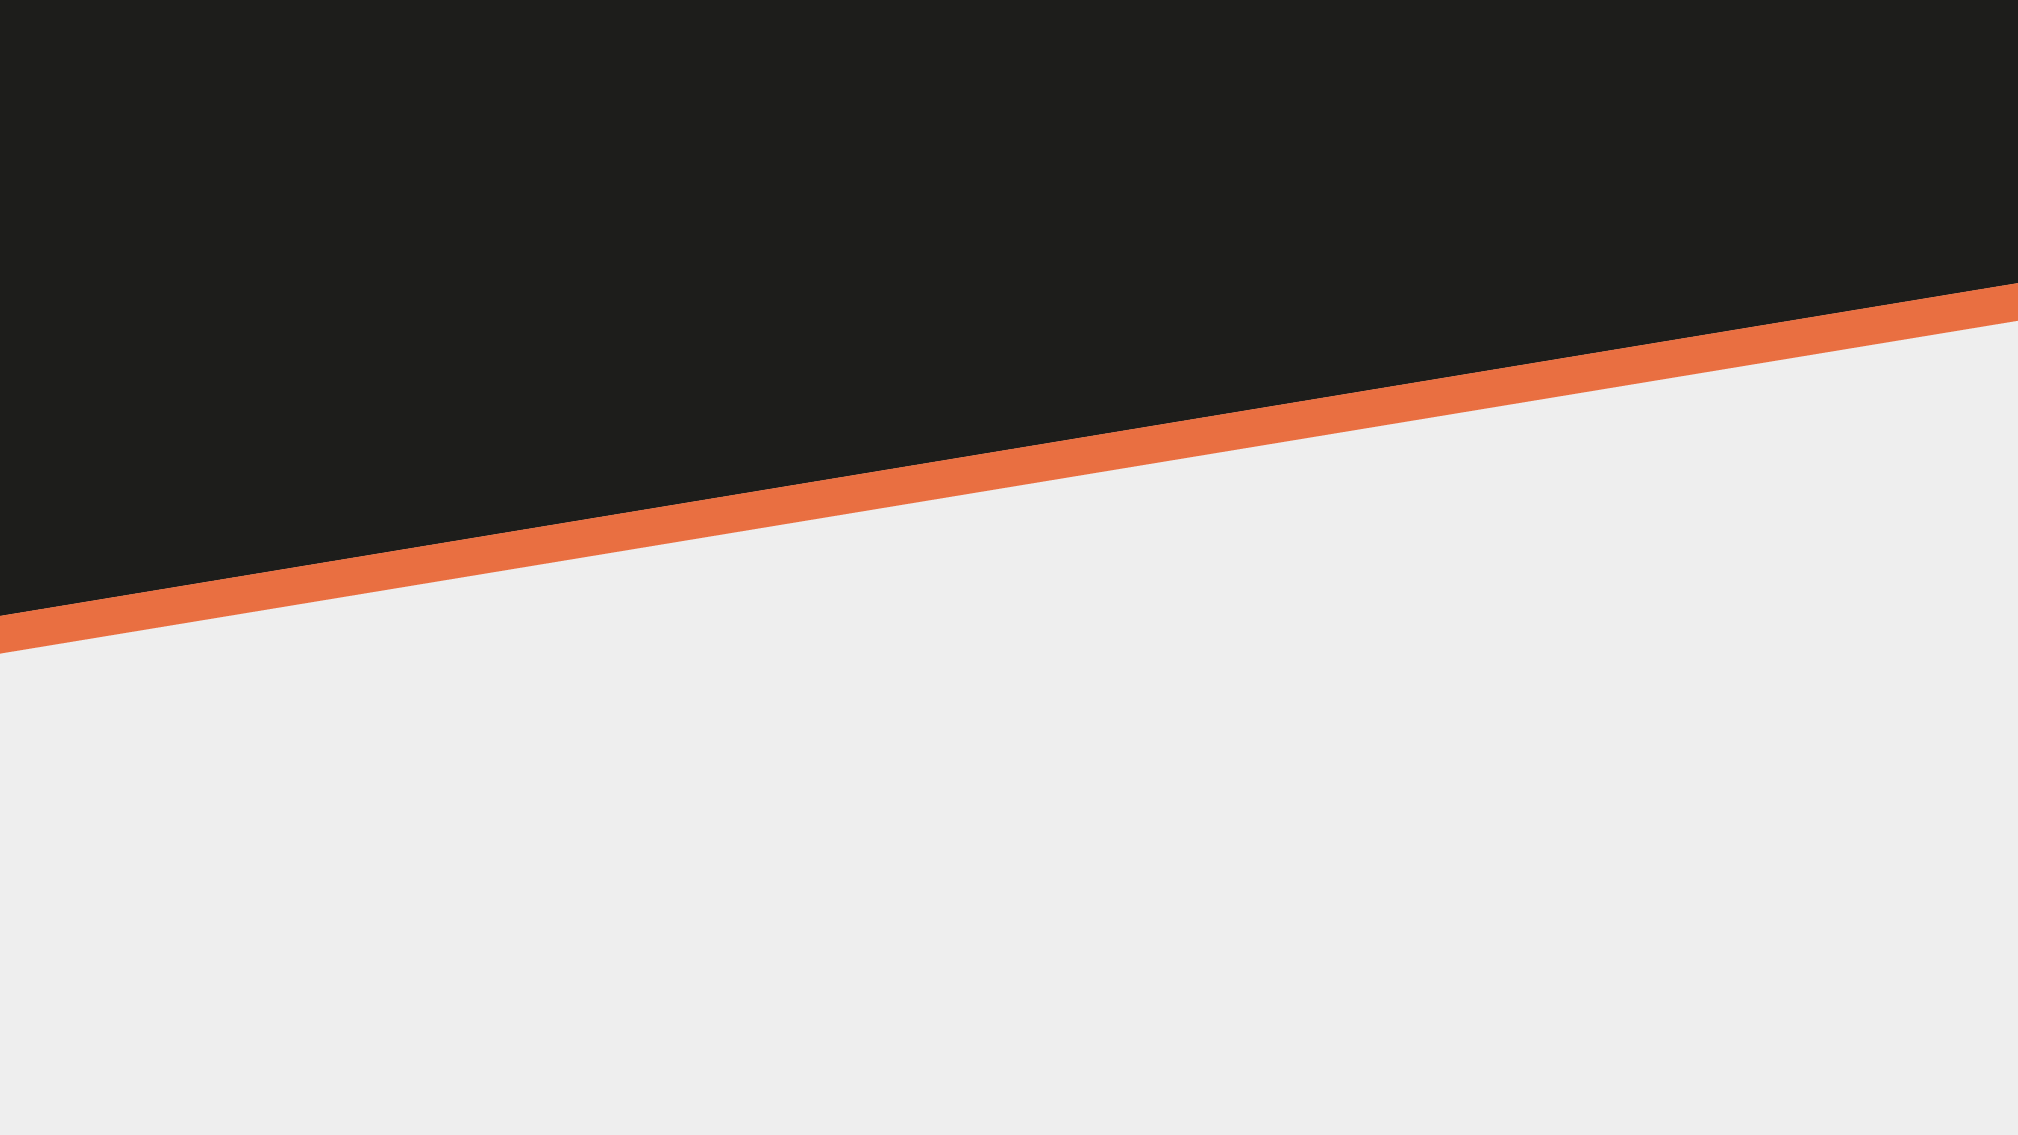
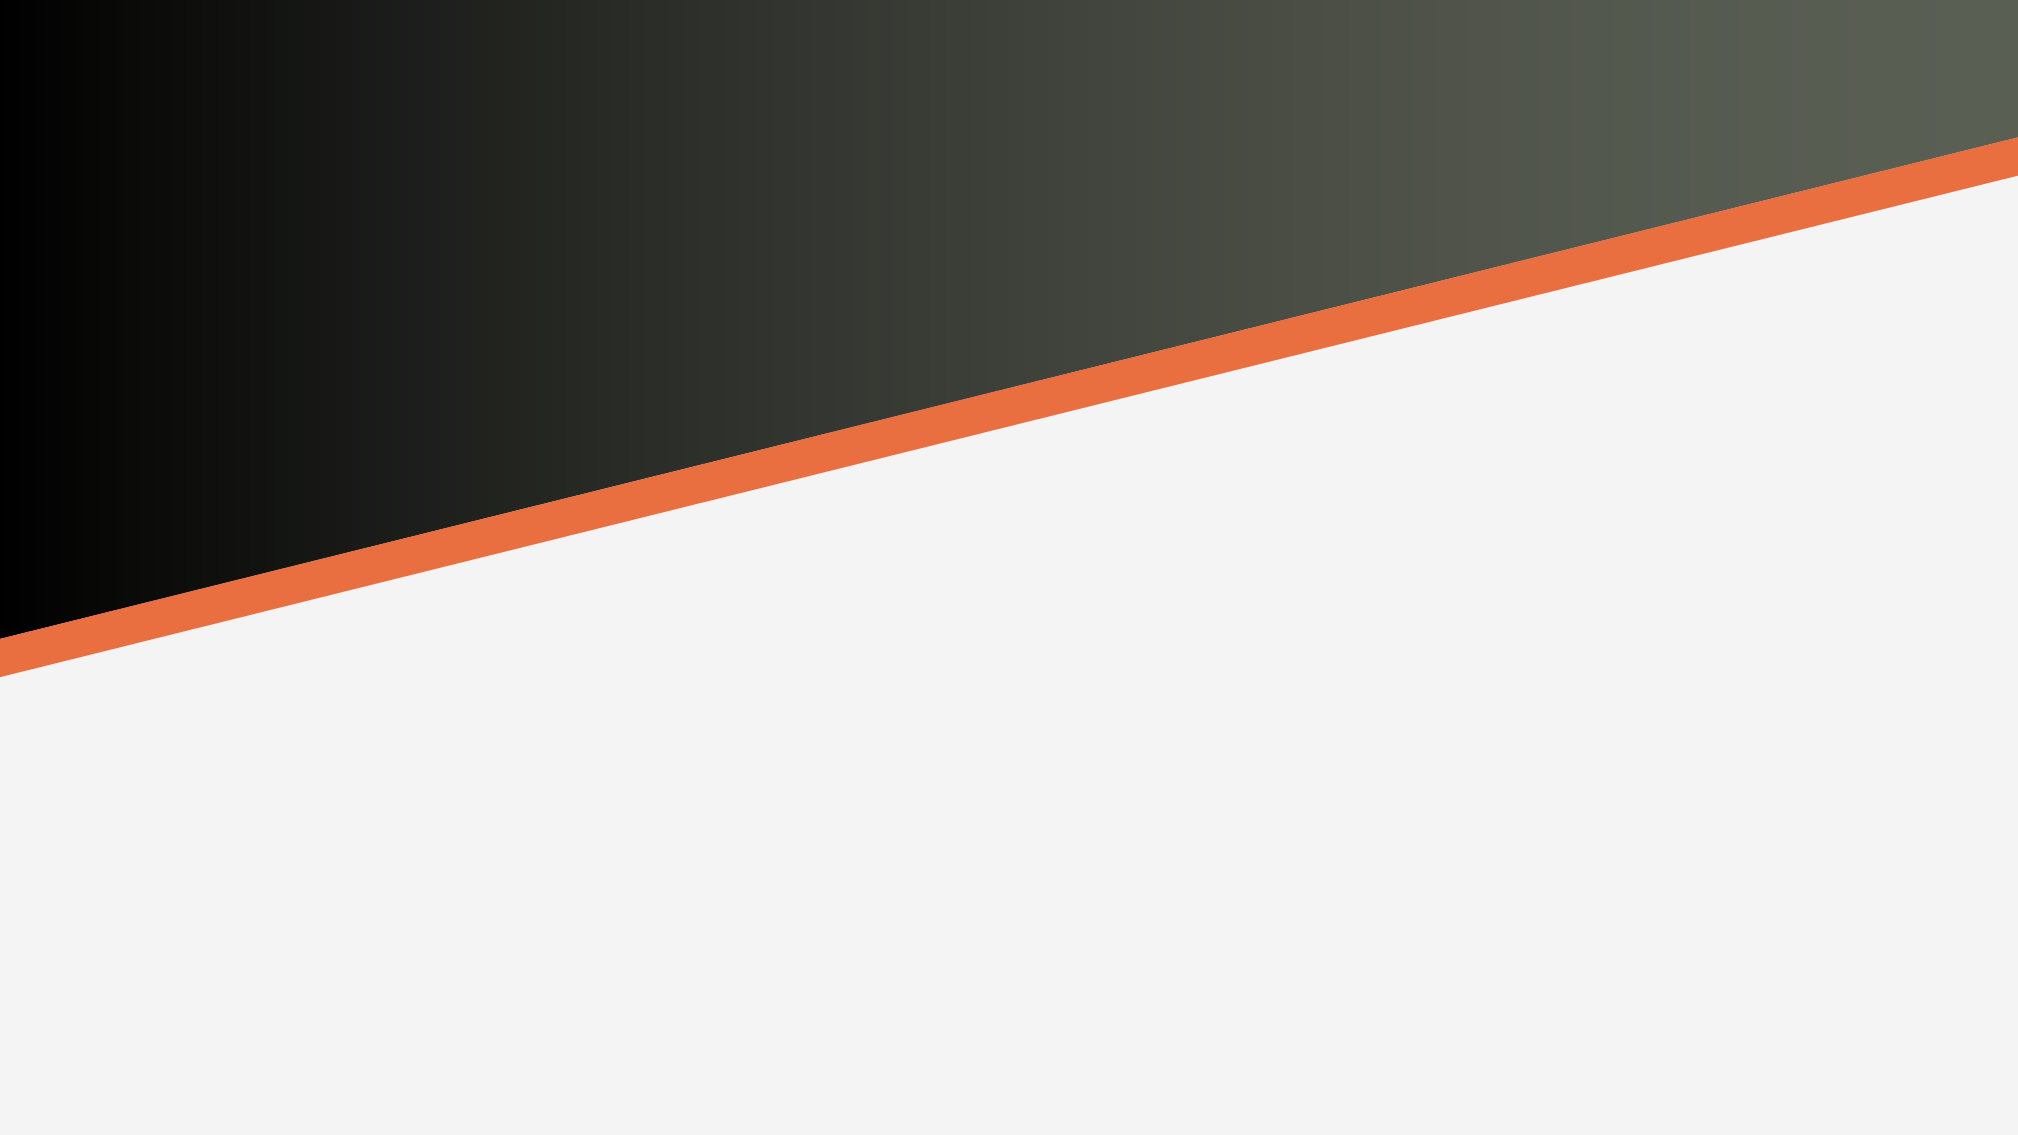
fix estilo colores

Changed region(s): [[0.1561, 0.0, 1.0, 0.5242], [0.0, 0.0, 0.1249, 0.6167]]

diff --git a/css/estilos.css b/css/estilos.css
@@ -2,14 +2,14 @@
 :root {
     /* Definición de variables CSS (colores, gradiente, sombras) */
   --color-naranja-dark: #e96f41;
-  --color-naranja-light: #f7bf72;
+  --color-naranja-light: linear-gradient(to bottom, #e96f41 1%,#1e1e1e 100%);;
   --color-naranja: #f4a942;
-  --color-negro: #1e1e1e;
+  /* --gradiente: #1e1e1e; */
+  --gradiente: linear-gradient(to bottom, #1e1e1e 0%,#5a5f54 100%);
   --color-blanco: #eee;
-  --color-gris: #5a5f54d7;
-  --gradiente: linear-gradient(180deg, #4b4b4b, #5a5f54);
+  --color-negro: #1e1e1e;  
   --box-shadow: 0px 0px 15px 5px var(--color-naranja-light);
-  --borde-texto:10px solid var(--color-naranja-dark)
+  --borde-texto:5px solid var(--color-naranja-dark)
 
 
 }
@@ -84,7 +84,7 @@ body {
   position: absolute;
   left: 255px;
   top: 10px;
-  background: var(--color-negro);
+  background: var(--gradiente);
   color: var(--color-blanco);
   height: 45px;
   width: 45px;
@@ -154,7 +154,7 @@ body {
 /* Lista de elementos en el menú lateral */
 #sidebar .list-items {
   position: relative;
-  background: var(--color-negro);
+  background: var(--gradiente);
   width: 100%;
   height: 100%;
   list-style: none;
@@ -163,15 +163,13 @@ body {
 
 #sidebar .list-items li {
   padding-left: 40px;
-  line-height: 50px;
-  border-top: 0.5px solid rgba(255, 255, 255, 0.1);
-  border-bottom: 0.5px solid #33333340;
+  line-height: 50px; 
   transition: all 0.3s ease;
 }
   /* Efecto hover en cada elemento */
 #sidebar .list-items li:hover {
   box-shadow: 0 0px 10px 3px #22222255;
-  background: var(--color-naranja-dark);
+  background: var(--color-naranja-light);
 }
 
 /* Estilos para los enlaces del menú lateral */
@@ -198,7 +196,7 @@ header{
   margin-bottom: 30px;
 }
 .banner {
-  height: 400px;
+  height: 450px;
   background: url(../img/banner.webp);
   background-position:center;
   background-repeat: no-repeat;  
@@ -215,7 +213,7 @@ header{
   position: relative;
   z-index: 3rem;
   text-align: center;
-  color: var(--color-negro);   
+  color: var(--color-gris);   
 }
 
 .banner .info h1 {
@@ -338,7 +336,7 @@ header{
  justify-content: center;
   padding: 20px;
   color: var(--color-blanco);
-  background: var(--color-negro);
+  background: var(--gradiente);
   border-top: var(--borde-texto);
   border-bottom: var(--borde-texto);     
 }
@@ -553,7 +551,7 @@ iframe{
   margin-bottom: 5px;
   font-size: 1rem;
   font-weight: 500;
-  color: var(--color-negro);
+  color: var(----color-negro);
 }
 
 /* Estilos para los inputs de texto y correo */
@@ -566,7 +564,7 @@ iframe{
   border: 2px solid var(--color-naranja-dark);
   border-radius: 5px;
   background-color: var(--color-blanco);
-  color: var(--color-negro);
+  color: var(--negro);
   transition: border-color 0.3s ease;
 }
 
@@ -607,7 +605,7 @@ iframe{
                               Footer
 ---------------------------------------------------------------------*/
 .contacto {
-  background-color: var(--color-naranja-dark);
+  background: var(--color-naranja-light);
   color: var(--color-blanco);
   padding: 50px 0;
   font-size: 1.2rem;
@@ -632,18 +630,13 @@ iframe{
   margin-bottom: 20px;
   font-size: 1.3rem;
   font-weight: 200;
-  color: var(--color-negro);
+  color: var(----color-negro);
   
 }
 
 .contacto p {
   font-weight: 400;
-  
-
 }
-
-/**Redes Sociales*/
-/**Posicionamiento del Footer*/
 .contacto .redes-sociales ul {
   list-style: none;
   display: flex;
@@ -664,7 +657,7 @@ iframe{
 }
 
 .contacto .redes-sociales ul li :hover {
-  color: var(--color-negro);
+  color: var(--color-naranja);
 }
 
 .contacto .fuentes a {
@@ -684,7 +677,7 @@ section .titulo{
   text-align: center;
   padding: 10px 0;
   color: var(--color-blanco);
-  background: var(--color-negro);
+  background: var(--gradiente);
   border-top: var(--borde-texto);
   border-bottom: var(--borde-texto);
   z-index: 500;
